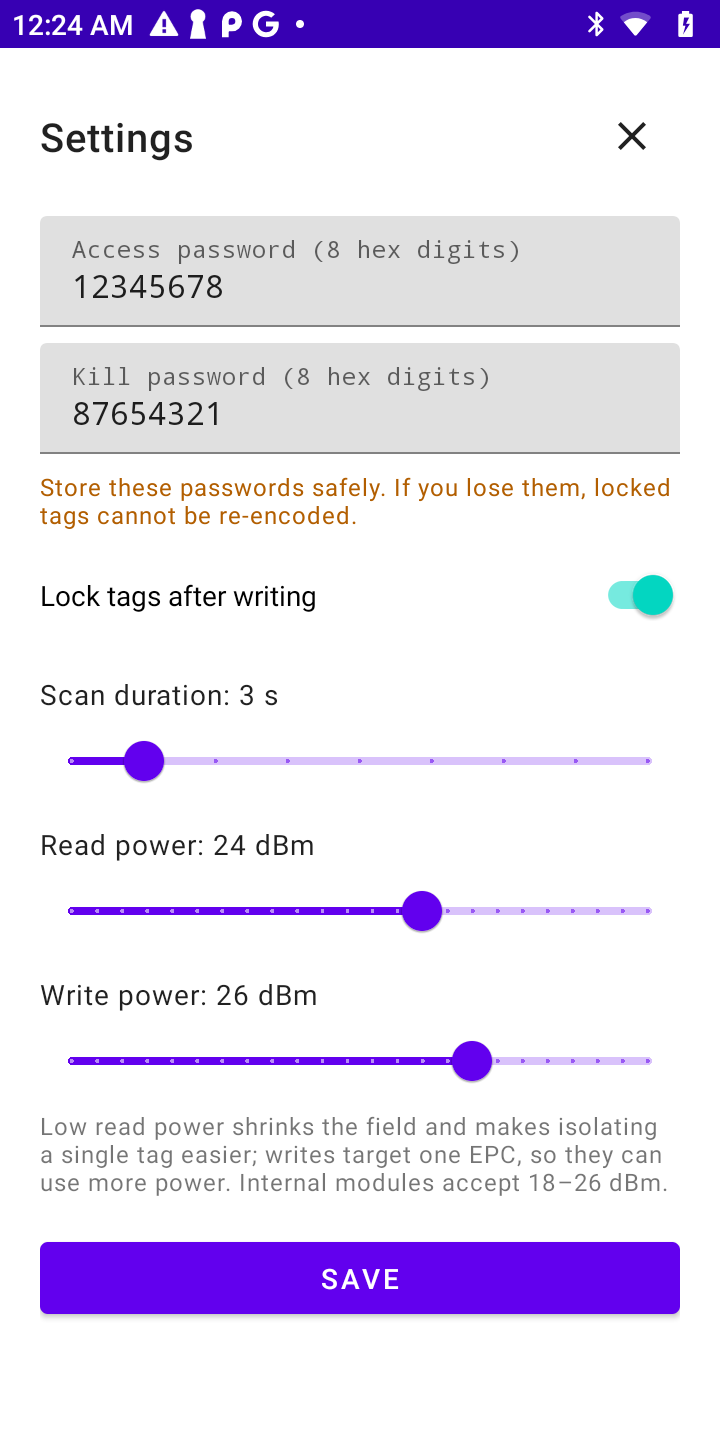
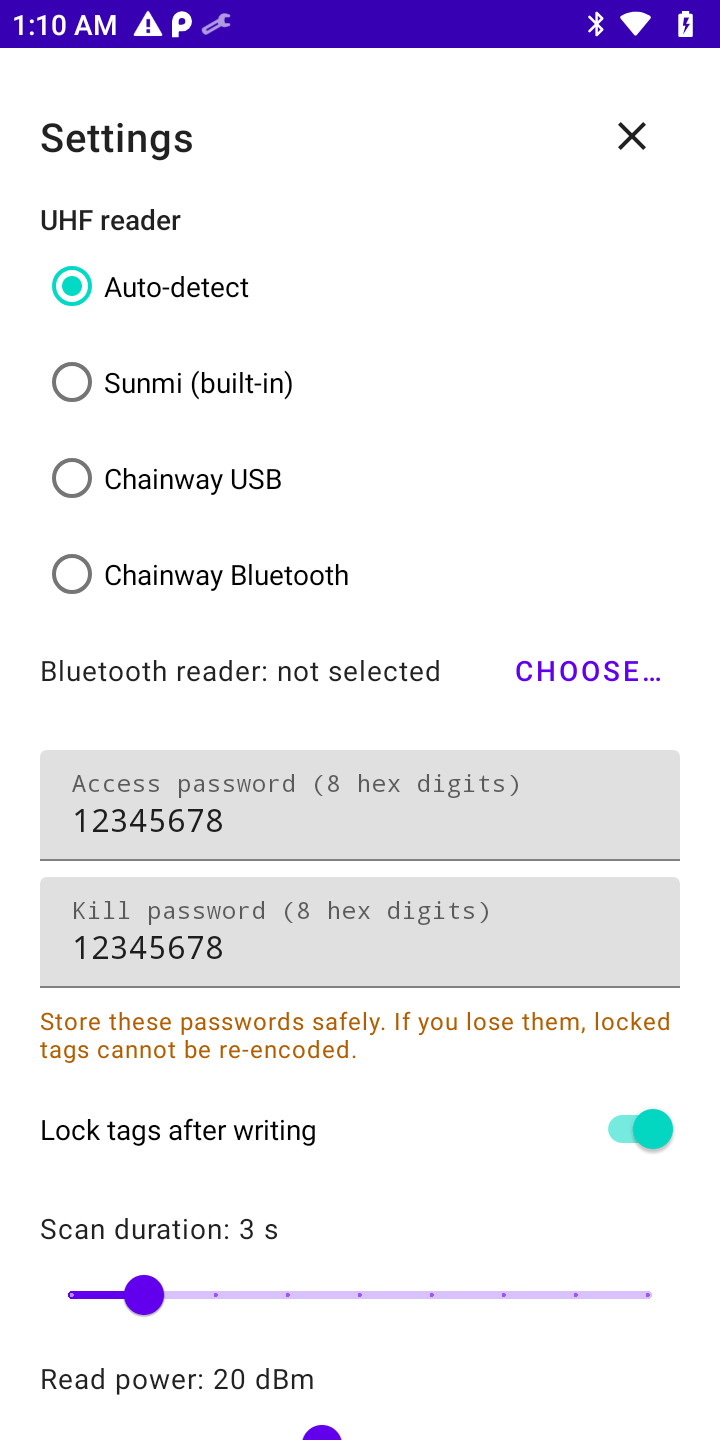
Add landscape and missing screenshots to docs assets

diff --git a/docs/pages/encoding.md b/docs/pages/encoding.md
@@ -43,6 +43,23 @@ Signalled with a green flash and a success tone.
 
 ![Already encoded](assets/encode-already-encoded.png)
 Shown when the tag already carries this card's UID.
+
+![Invalid signature](assets/encode-invalid-signature.png)
+Shown when the card's NXP originality signature does not validate.
+~~~
+
+~~~gallery w=210 scroll
+![1. Waiting for card (tablet)](assets/encode-wait-for-card_l.png)
+
+![2. UHF check (tablet)](assets/encode-uhf-scan_l.png)
+
+![3. Confirmation (tablet)](assets/encode-confirm-write_l.png)
+
+![4. Success (tablet)](assets/encode-success_l.png)
+
+![Already encoded (tablet)](assets/encode-already-encoded_l.png)
+
+![Invalid signature (tablet)](assets/encode-invalid-signature_l.png)
 ~~~
 
 ## Continuous mode

diff --git a/docs/pages/scanning.md b/docs/pages/scanning.md
@@ -34,3 +34,13 @@ The card's tag was seen over UHF — the entry turns **green**.
 ![Missing](assets/scan-validation-missing.png)
 No matching UHF read — pinned **red** at the top.
 ~~~
+
+~~~gallery w=180 scroll
+![Empty (tablet)](assets/scan-empty_l.png)
+
+![Inventory (tablet)](assets/scan-tag-list_l.png)
+
+![Paired (tablet)](assets/scan-validation-paired_l.png)
+
+![Missing (tablet)](assets/scan-validation-missing_l.png)
+~~~

diff --git a/docs/pages/validating.md b/docs/pages/validating.md
@@ -23,3 +23,13 @@ A tag answered — its RSSI is shown.
 ![Missing](assets/validate-tag-missing.png)
 No tag with this card's EPC in range.
 ~~~
+
+~~~gallery w=180 scroll
+![Idle (tablet)](assets/validate-idle_l.png)
+
+![Searching (tablet)](assets/validate-searching_l.png)
+
+![Paired (tablet)](assets/validate-paired_l.png)
+
+![Missing (tablet)](assets/validate-tag-missing_l.png)
+~~~

diff --git a/docs/pages/settings.md b/docs/pages/settings.md
@@ -8,7 +8,12 @@ related: [encoding, troubleshooting]
 
 Open the settings with the gear icon in the top bar.
 
-![Settings](assets/settings.png#w=300&h=75vh)
+
+~~~gallery
+![Settings (top)](assets/settings.png)
+![Settings (bottom)](assets/settings-bottom.png)
+![Settings (tablet)](assets/settings_l.png)
+~~~
 
 | Setting | Default | Description |
 |---|---|---|

diff --git a/docs/pages/index.md b/docs/pages/index.md
@@ -20,6 +20,8 @@ pairs match.
 
 ![About tab](assets/about.png#w=300&h=75vh)
 
+![About tab (tablet)](assets/about_l.png#w=300&h=75vh)
+
 ## What the app does
 
 - **Encode** — reads an NFC card's UID, checks that exactly *one* UHF tag is in
